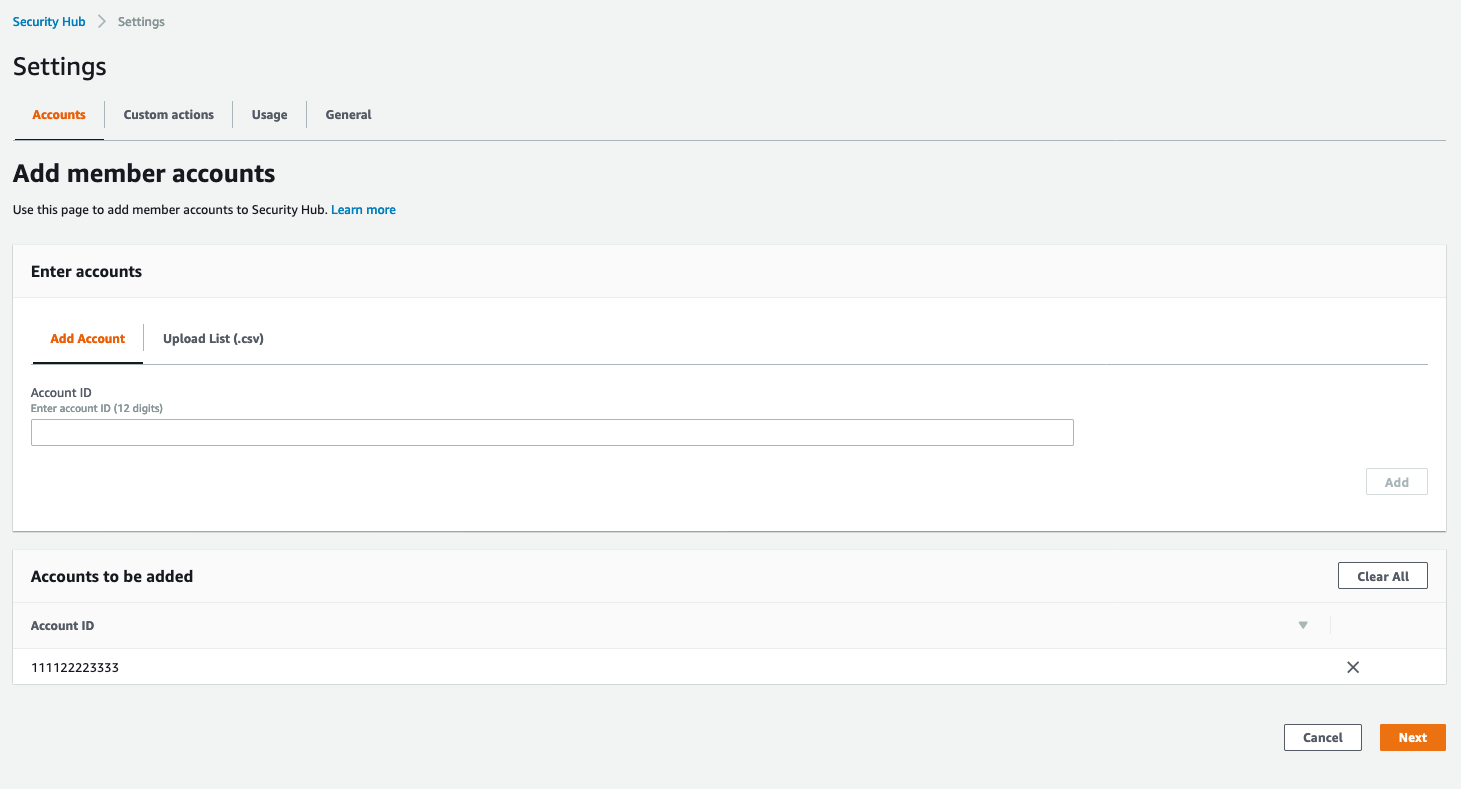
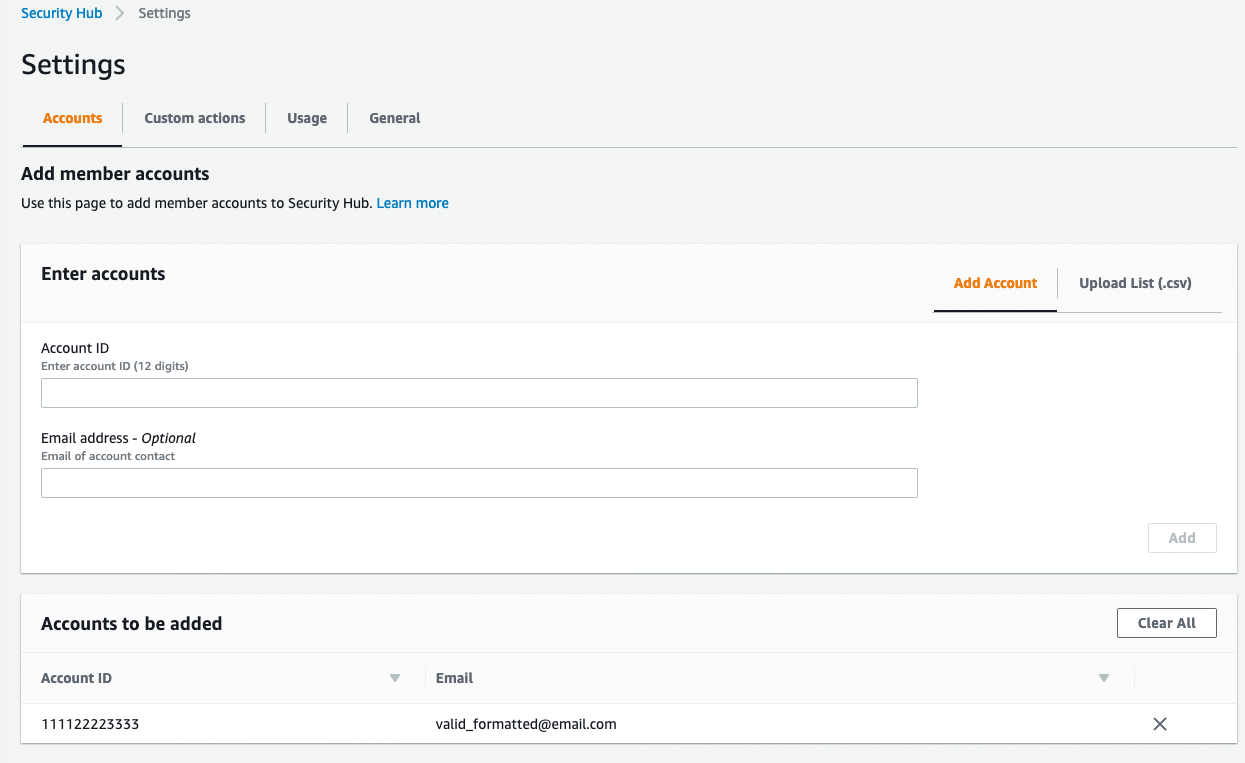
updated docs for organizations support and removed some 3rd party links

diff --git a/docs/01-security-hub-walk-through.md b/docs/01-security-hub-walk-through.md
@@ -44,9 +44,13 @@ The Security Hub Summary page gives you an overview of security and compliance s
 
 
 ## Multi Account Hierarchy  
-You can invite other AWS accounts to enable AWS Security Hub and become associated with your AWS account. If the owner of the account that you invite enables Security Hub and then accepts the invitation, your account is designated as the master Security Hub account, and the invited accounts become associated as member accounts. When the invited account accepts the invitation, permission is granted to the master account to view the findings in the member account. The master account can also perform actions on findings in a member account.
+An AWS Security Hub administrator account can view data from and manage configuration for its member accounts. The Security Hub administrator-member relationship is established differently based on whether the accounts belong to an organization in AWS Organizations. 
 
-Security Hub supports up to 1000 member accounts per master, account per Region. The master-member account association is created in only the one Region that the invitation was sent from. You must enable Security Hub in each Region that you want to use it in, and then invite each account to associate as a member account in each Region.  
+
+
+If you are integrated with Organizations, the organization management account designates the Security Hub administrator account, which becomes the administrator account.  The Security Hub administrator account automatically has access to all of the accounts in the organization. The Security Hub administrator account determines which accounts in the organization to enable as member accounts. These member accounts cannot disassociate themselves from the Security Hub administrator account.
+
+If you are not integrated with Organizations, member accounts accept an invitation from a administrator account. A Security Hub administrator account for an organization can also invite member accounts that are not part of the organization.  Accounts that are added by invitation can disassociate themselves from their administrator account. 
 
 In this section we will add a member account to your Workshop Security Hub Account.  These instructions use sample information and will not actually setup the Multi-Account Hierarchy. 
 
@@ -56,15 +60,13 @@ In this section we will add a member account to your Workshop Security Hub Accou
 
     ![Security Hub Multi](./images/01-multi-account-settings.png)
 
-2. Click **+ Add accounts** in the above the empty account table.
+2. Click **+ Add accounts** above the empty account table.
 
 3. Enter **111122223333** (Four 1's, 2's, & 3's) in the **Account ID** field.
 
 4. Enter a valid formatted **email address**. (for this example it doesn't have to be a real email.)
 
 5. Click **Add**
-
-    !!! info "Be sure to hit the tab key to get the Add button to enable.  The email does not need to be the AWS account owner.  The Add workflow allows you to add multiple member account invitations at a time."
 
     ![Security Hub Multi](./images/01-multi-account-add.png)
 

diff --git a/docs/03-remediation-and-response.md b/docs/03-remediation-and-response.md
@@ -208,7 +208,7 @@ You can read more in <a href = 'https://aws.amazon.com/blogs/security/automated-
 
 21. Click the three vertical dots to expand associated links to Config.
 
-22. Click the button for **Config Rule**.
+22. Click the link for **Config Rule**.
 
     ![remediation](./images/03-remediation-cis28-rule.png)
 
